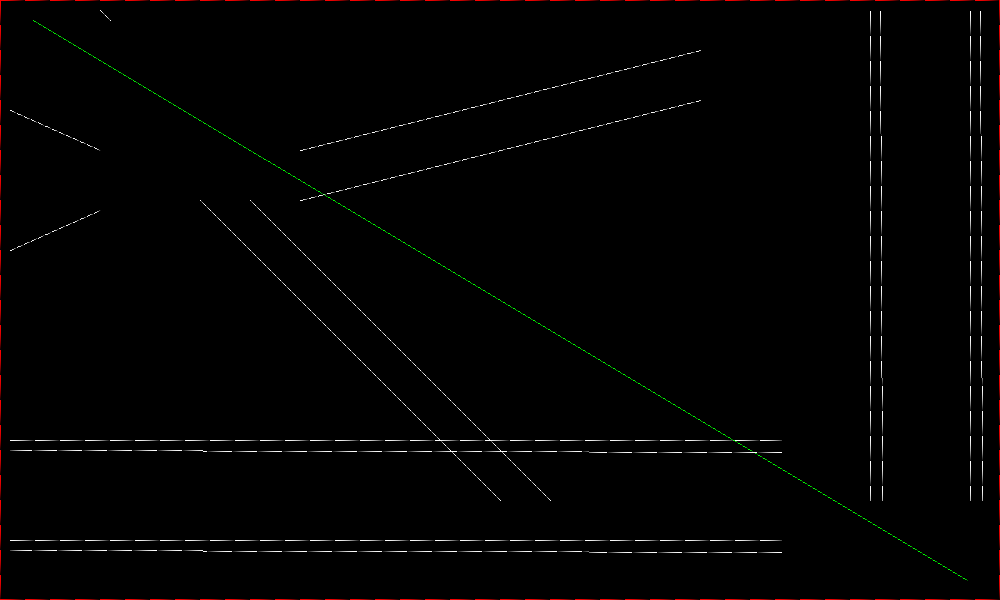
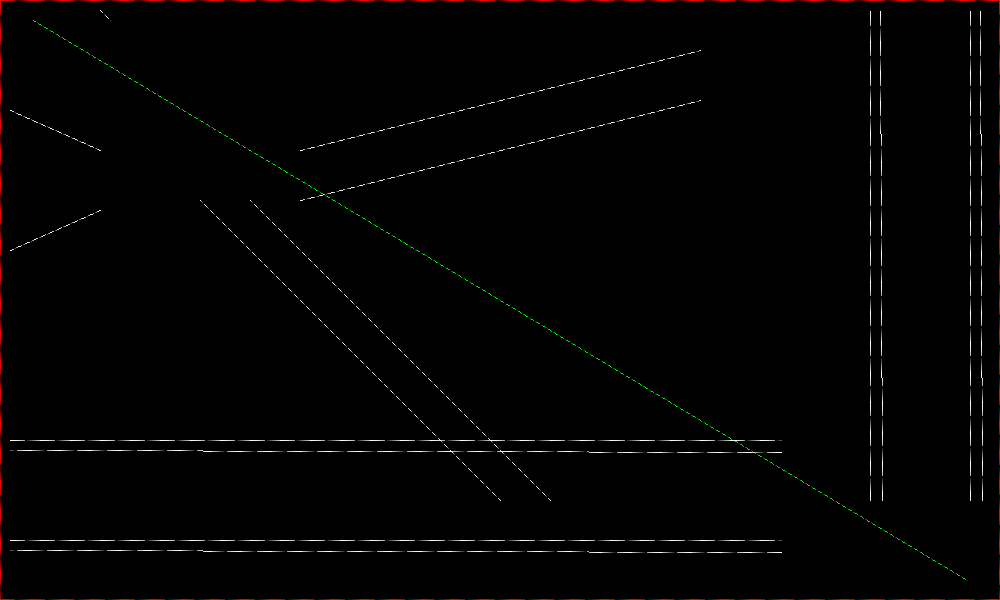
Working on one pixel patterned-line

diff --git a/src/Pt-Gfx/Rasterizer2.cpp b/src/Pt-Gfx/Rasterizer2.cpp
@@ -122,6 +122,8 @@ void Rasterizer2::setPen( const Pen& pen )
     Gfx::fill(_penBuffer.begin(), _penBuffer.end(), pen.color());
 
     _penPixel.reset(_penBuffer.view(), 0, 0);
+
+    updatePenPattern();
 }
 
 void Rasterizer2::setBrush( const Brush& brush )
@@ -220,6 +222,37 @@ void Rasterizer2::updateGradientBrushAsNeeded(Pt::int32_t width, Pt::int32_t hei
 // ======================================================================================
 // ===== Private Member Functions =======================================================
 // ======================================================================================
+
+// These value should produce numbers between 1 to 5 when calculating the incremental factor
+// of the pattern indexing counter (therefore PI_GEN_PAT_MUL_FACTOR is set to 5)
+const Pt::int32_t Rasterizer2::PI_CTR_INC_MUL_FACTOR = 11;
+const Pt::int32_t Rasterizer2::PI_CTR_INC_SUB_FACTOR = 10;
+
+const Pt::int32_t Rasterizer2::PI_GEN_PAT_MUL_FACTOR = 5;
+const Pt::int32_t Rasterizer2::PI_GEN_PAT_UNIT_WIDTH = 3;
+const Pt::int32_t Rasterizer2::PI_GEN_PAT_UNIT_COUNT = 2;
+
+const Pt::int32_t Rasterizer2::PI_PAT_TOTAL_BUF_SIZE = Rasterizer2::PI_GEN_PAT_MUL_FACTOR
+                                                     * Rasterizer2::PI_GEN_PAT_UNIT_WIDTH
+                                                     * Rasterizer2::PI_GEN_PAT_UNIT_COUNT;
+
+void Rasterizer2::updatePenPattern()
+{
+    if(_aaMode == AntiAliasingMode::None) {
+    }
+
+    else {
+    }
+
+    Pt::int32_t gctr = 0;
+    for(int i = 0; i < PI_GEN_PAT_UNIT_WIDTH * PI_GEN_PAT_MUL_FACTOR; ++i) {
+        _patternBuffer[gctr++] = XWAA_WFILTER[i * 255 / 25];
+    }
+    for(int i = 0; i < PI_GEN_PAT_UNIT_WIDTH * PI_GEN_PAT_MUL_FACTOR; ++i) {
+        _patternBuffer[gctr++] = XWAA_WFILTER[255 - i * 255 / 25];
+    }
+
+}
 
 void Rasterizer2::updateGradientBrush(Pt::int32_t width, Pt::int32_t height)
 {

diff --git a/src/Pt-Gfx/Rasterizer2.h b/src/Pt-Gfx/Rasterizer2.h
@@ -95,6 +95,7 @@ class Rasterizer2
         void setAntiAliasingMode(AntiAliasingMode mode)
         {
             _aaMode = mode;
+            updatePenPattern();
         }
 
         const AntiAliasingMode& antiAliasingMode() const
@@ -183,6 +184,16 @@ class Rasterizer2
         void updateGradientBrushAsNeeded(Pt::int32_t width, Pt::int32_t height);
 
     private:
+        // Pattern-related constants
+        static const Pt::int32_t PI_CTR_INC_MUL_FACTOR;
+        static const Pt::int32_t PI_CTR_INC_SUB_FACTOR;
+
+        static const Pt::int32_t PI_GEN_PAT_MUL_FACTOR;
+        static const Pt::int32_t PI_GEN_PAT_UNIT_WIDTH;
+        static const Pt::int32_t PI_GEN_PAT_UNIT_COUNT;
+
+        static const Pt::int32_t PI_PAT_TOTAL_BUF_SIZE;
+
         // Polygon scanlines
         struct PolygonScanline16 {
             Pt::int16_t from, to;
@@ -215,6 +226,7 @@ class Rasterizer2
         void rasterPolygonAreaXWAA(const Point* points, const size_t* pointCount, size_t polyCount, size_t totalPointCount, const Color& color, Pt::int32_t minX, Pt::int32_t minY, Pt::int32_t maxX, Pt::int32_t maxY);
 
     private:
+        void updatePenPattern();
         void updateGradientBrush(Pt::int32_t width, Pt::int32_t height);
 
         void updateClip();
@@ -255,7 +267,7 @@ class Rasterizer2
         Pen              _pen;
         Image            _penBuffer;
         ConstPixel       _penPixel;
-        Pt::uint8_t      _patternBuffer[25];
+        Pt::uint8_t      _patternBuffer[256];
 
         Brush            _brush;
         Image            _brushBuffer;

diff --git a/src/Pt-Gfx/Rasterizer2_PatternedLine.cpp b/src/Pt-Gfx/Rasterizer2_PatternedLine.cpp
@@ -45,12 +45,8 @@ void Rasterizer2::rasterOnePixelPatternedLine(Pt::int32_t x1, Pt::int32_t y1, Pt
     const Pt::int32_t sizeY = abs(y2 - y1) + 1;
 
     // Calculate the incremental factor of the pattern indexing counter
-    // This one should produce numbers between 1 to 5
-    const Pt::int32_t piCtrInc = 11 * (sizeX + sizeY) / sqrtf(sizeX * sizeX + sizeY * sizeY) - 10;
+    const Pt::int32_t piCtrInc = PI_CTR_INC_MUL_FACTOR * (sizeX + sizeY) / sqrtf(sizeX * sizeX + sizeY * sizeY) - PI_CTR_INC_SUB_FACTOR;
 
-    for(int i = 0; i < 5 * 5; ++i) {
-        _patternBuffer[i] = XWAA_WFILTER[i * 255 / 25];
-    }
 
     //
     Pt::int32_t piCtrInOut = 0;
@@ -93,7 +89,7 @@ void Rasterizer2::rasterOnePixelPatternedGLineSegmentNoAA(Pt::int32_t x1, Pt::in
 
         Pt::uint8_t alpha = _patternBuffer[piCtrInOut];
         piCtrInOut += piCtrInc;
-        if(piCtrInOut >= (Pt::int32_t) sizeof(_patternBuffer)) piCtrInOut = 0;
+        if(piCtrInOut >= PI_PAT_TOTAL_BUF_SIZE) piCtrInOut = 0;
 
         // Check if we should skip drawing the pixel
         bool skipDrawing = false;
